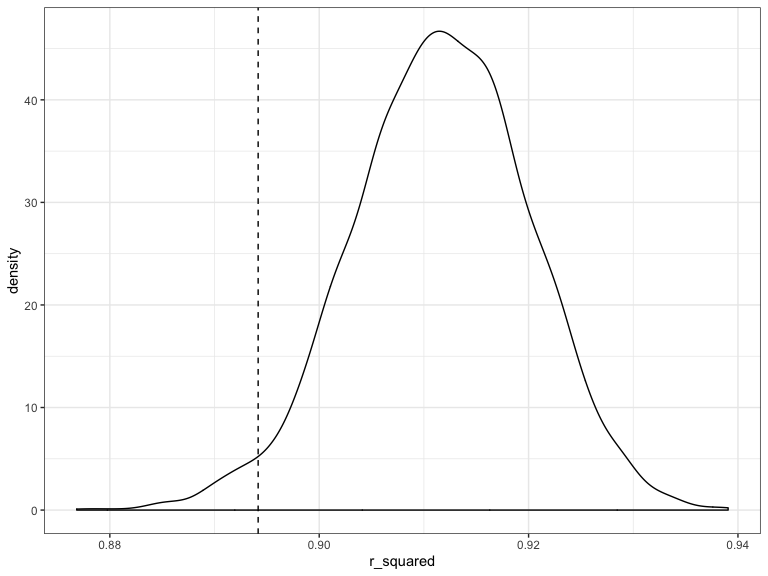
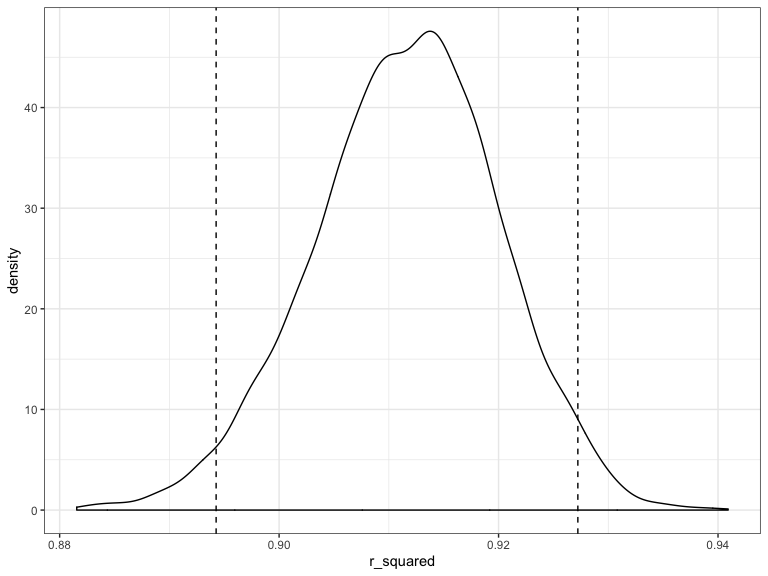
Problem 2 plot estimate

diff --git a/p8105_hw6_gl2677.md b/p8105_hw6_gl2677.md
@@ -126,3 +126,27 @@ results = weather_df %>%
   unnest() %>% 
   mutate(log = log(beta_0*beta_1))
 ```
+
+``` r
+results %>% 
+  ggplot(aes(x = r_squared)) + 
+  geom_density() +
+  geom_vline(aes(xintercept = results %>% pull(r_squared) %>% quantile(probs = 0.025)),
+             linetype = "dashed") +
+  geom_vline(aes(xintercept = results %>% pull(r_squared) %>% quantile(probs = 0.975)),
+             linetype = "dashed")
+```
+
+<img src="p8105_hw6_gl2677_files/figure-gfm/plot estimate-1.png" width="90%" />
+
+``` r
+results %>% 
+  ggplot(aes(x = log)) + 
+  geom_density() +
+  geom_vline(aes(xintercept = results %>% pull(log) %>% quantile(probs = 0.025)),
+             linetype = "dashed") +
+  geom_vline(aes(xintercept = results %>% pull(log) %>% quantile(probs = 0.975)),
+             linetype = "dashed")
+```
+
+<img src="p8105_hw6_gl2677_files/figure-gfm/plot estimate-2.png" width="90%" />
